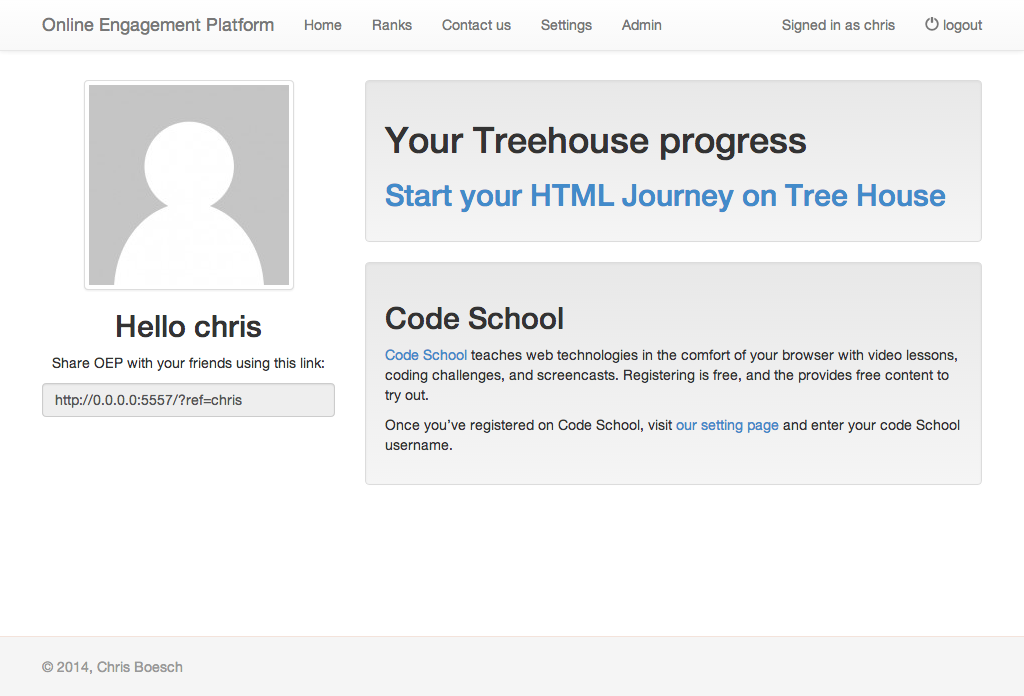
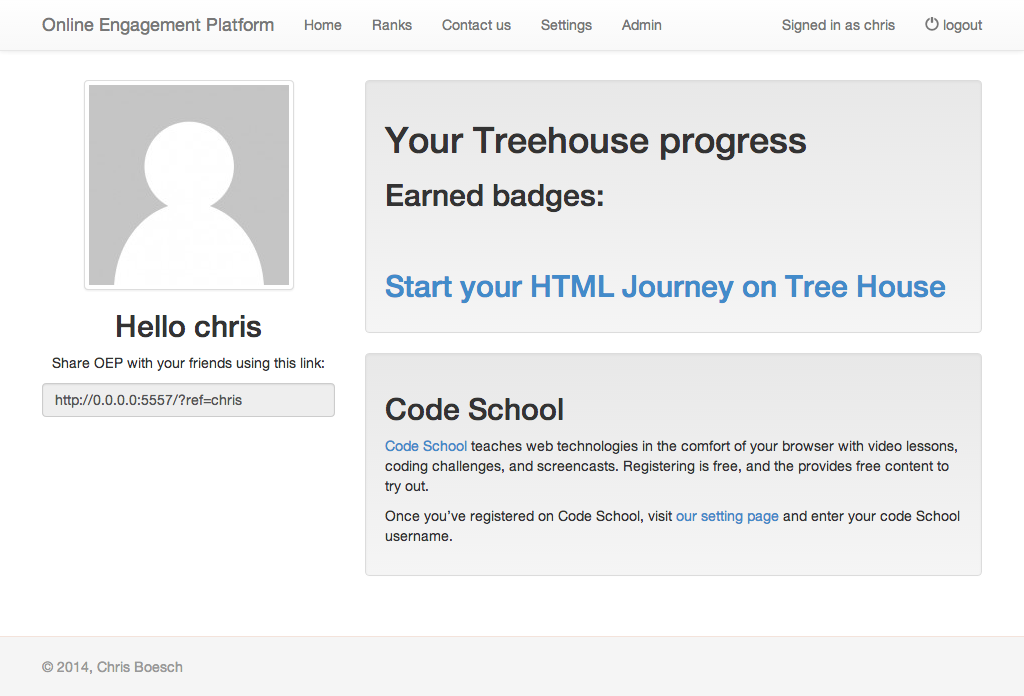
Fix e2e test

Changed region(s): [[0.375, 0.3922, 0.9375, 0.7845], [0.375, 0.2414, 0.9375, 0.3017]]

diff --git a/app/userdetails/userdetails.e2e.specs.js b/app/userdetails/userdetails.e2e.specs.js
@@ -23,17 +23,45 @@
            * Mock API requests.
            *
            */
-          .run(function($httpBackend, OEP_FIXTURES) {
+          .run(function($httpBackend, OEP_FIXTURES, $window, eopReportCardApi) {
             var fix = OEP_FIXTURES,
               users = fix.users, // List of user info,
-              chrisId = null; // Id of Chris, our logged in user
+              chrisId = null, // Id of Chris, our logged in user
+              _ = $window._,
+              updateBadges = function(id) {
+                if (
+                  users[id].services &&
+                  users[id].services.codeSchool &&
+                  users[id].services.codeSchool.id &&
+                  fix.profiles.codeSchool[users[id].services.codeSchool.id]
+                ) {
+                  users[id].services.codeSchool = eopReportCardApi.consolidate.codeSchool(
+                    fix.profiles.codeSchool[users[id].services.codeSchool.id]
+                  );
+                }
+
+                if (
+                  users[id].services &&
+                  users[id].services.treeHouse &&
+                  users[id].services.treeHouse.id &&
+                  fix.profiles.treeHouse[users[id].services.treeHouse.id]
+                ) {
+                  users[id].services.treeHouse = eopReportCardApi.consolidate.treeHouse(
+                    fix.profiles.treeHouse[users[id].services.treeHouse.id]
+                  );
+                }
+              };
 
             // Login
             $httpBackend.whenGET(fix.url.user).respond(function() {
+              var result;
+
               if (!chrisId) {
                 return [200, fix.newChris];
               } else {
-                return [200, fix.chris(users[chrisId])];
+                result = _.cloneDeep(users[chrisId]);
+                updateBadges(chrisId);
+                return [200, fix.chris(result)];
               }
             });
 
